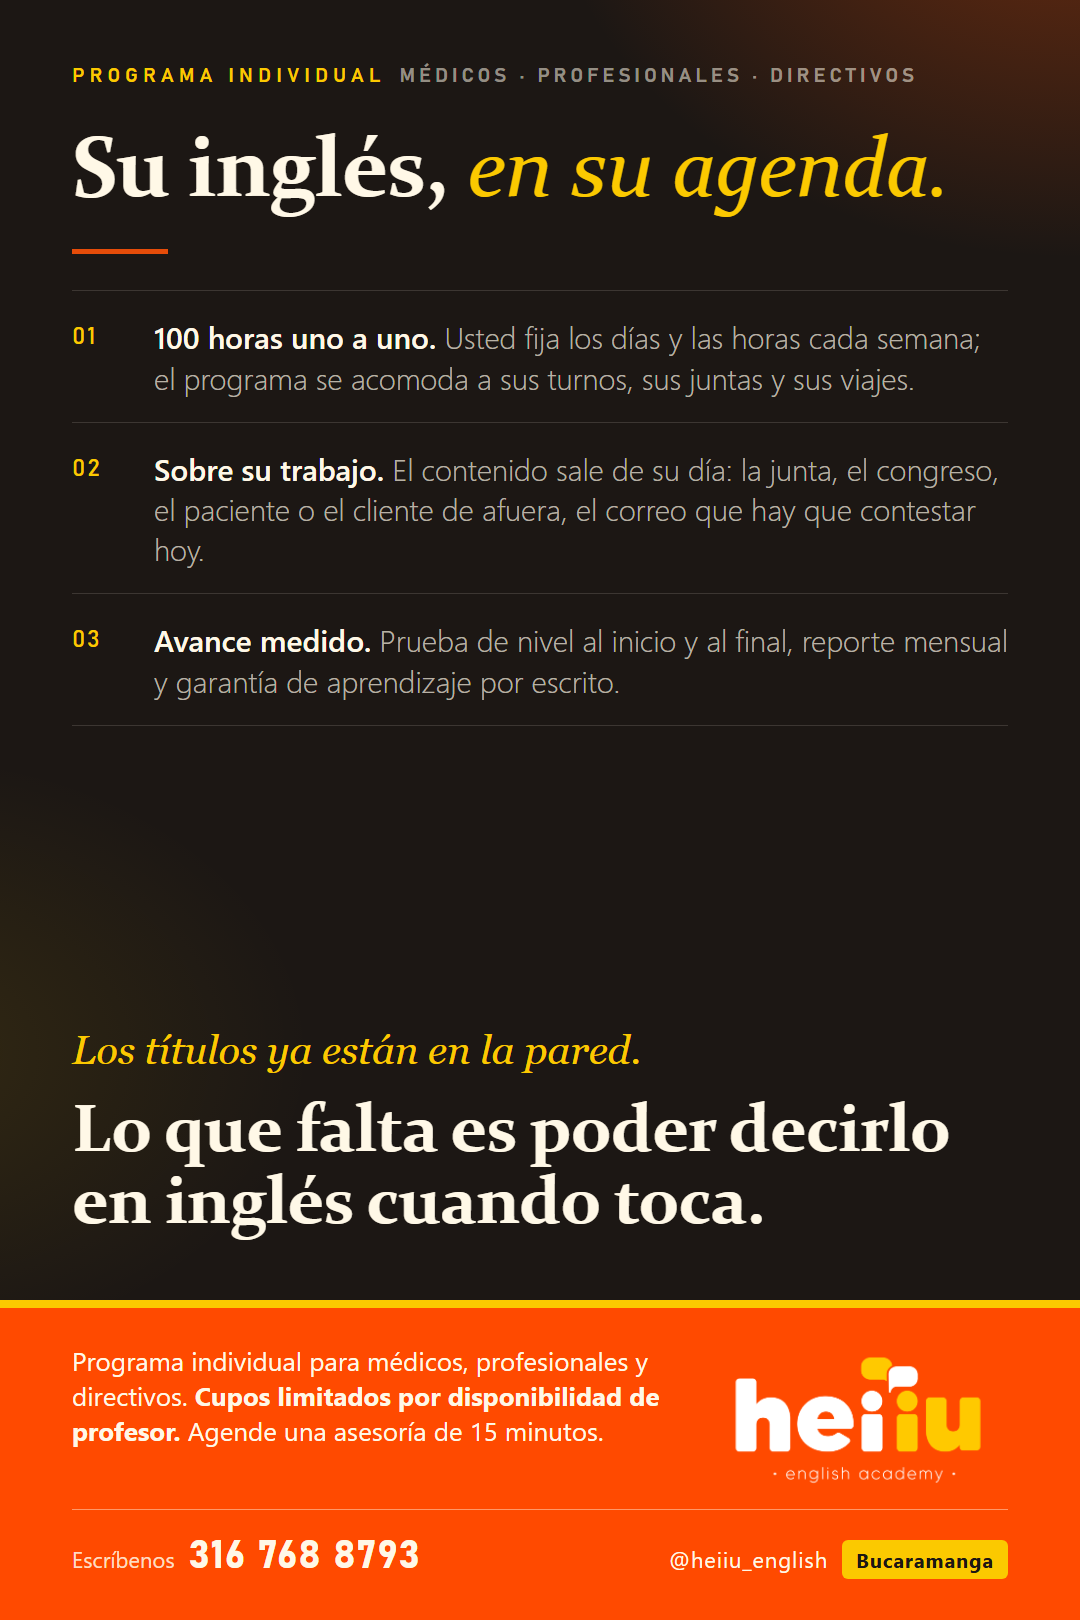
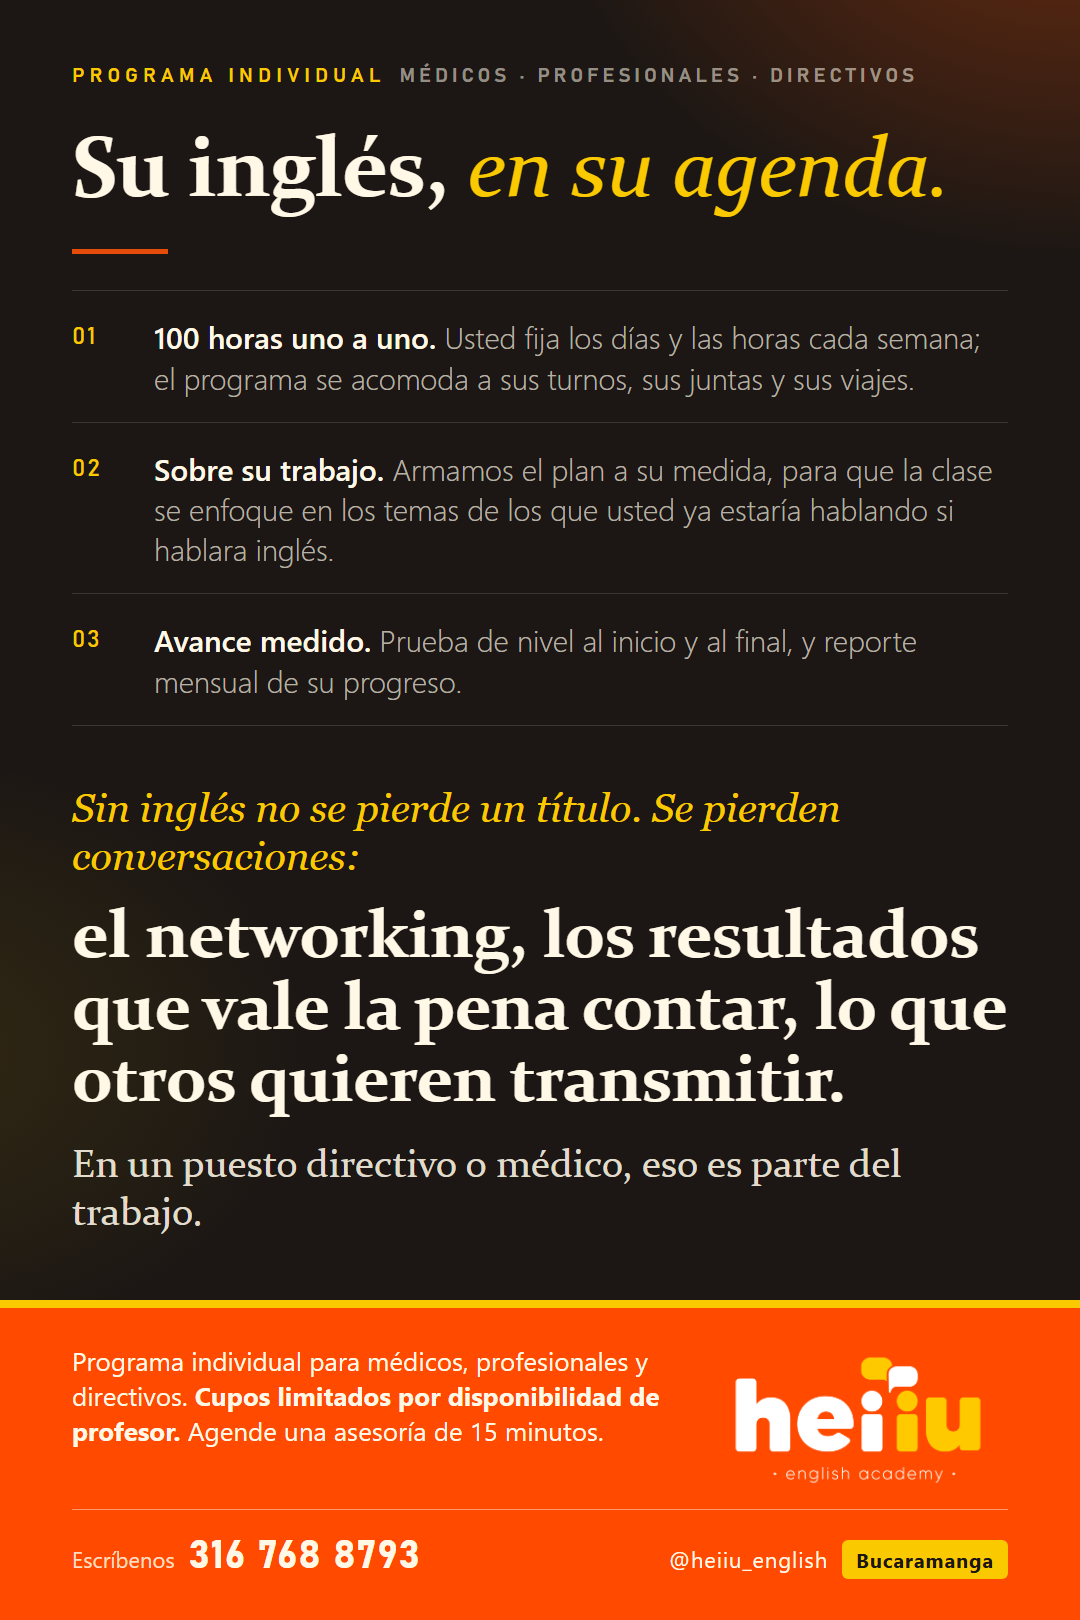
Pieza profesionales: sin garantia, plan a la medida sobre los temas de los que ya hablaria, cierre de conversaciones que se pierden (networking, resultados, entender a otros)

diff --git a/generadores/comercial/gen_piezas_conciencia.py b/generadores/comercial/gen_piezas_conciencia.py
@@ -92,11 +92,11 @@ PIEZAS = {
         label='PROGRAMA INDIVIDUAL', sub='MÉDICOS · PROFESIONALES · DIRECTIVOS',
         h1='Su inglés, <em>en su agenda.</em>',
         st=[('<b>100 horas uno a uno.</b> Usted fija los días y las horas cada semana; el programa se acomoda a sus turnos, sus juntas y sus viajes.'),
-            ('<b>Sobre su trabajo.</b> El contenido sale de su día: la junta, el congreso, el paciente o el cliente de afuera, el correo que hay que contestar hoy.'),
-            ('<b>Avance medido.</b> Prueba de nivel al inicio y al final, reporte mensual y garantía de aprendizaje por escrito.')],
-        lead='Los títulos ya están en la pared.',
-        big='Lo que falta es poder decirlo en inglés cuando toca.',
-        big2='',
+            ('<b>Sobre su trabajo.</b> Armamos el plan a su medida, para que la clase se enfoque en los temas de los que usted ya estaría hablando si hablara inglés.'),
+            ('<b>Avance medido.</b> Prueba de nivel al inicio y al final, y reporte mensual de su progreso.')],
+        lead='Sin inglés no se pierde un título. Se pierden conversaciones:',
+        big='el networking, los resultados que vale la pena contar, lo que otros quieren transmitir.',
+        big2='En un puesto directivo o médico, eso es parte del trabajo.',
         band='Programa individual para médicos, profesionales y directivos. <b>Cupos limitados por disponibilidad de profesor.</b> Agende una asesoría de 15 minutos.',
         band_px=320),
     '2_MEDICINA': dict(
